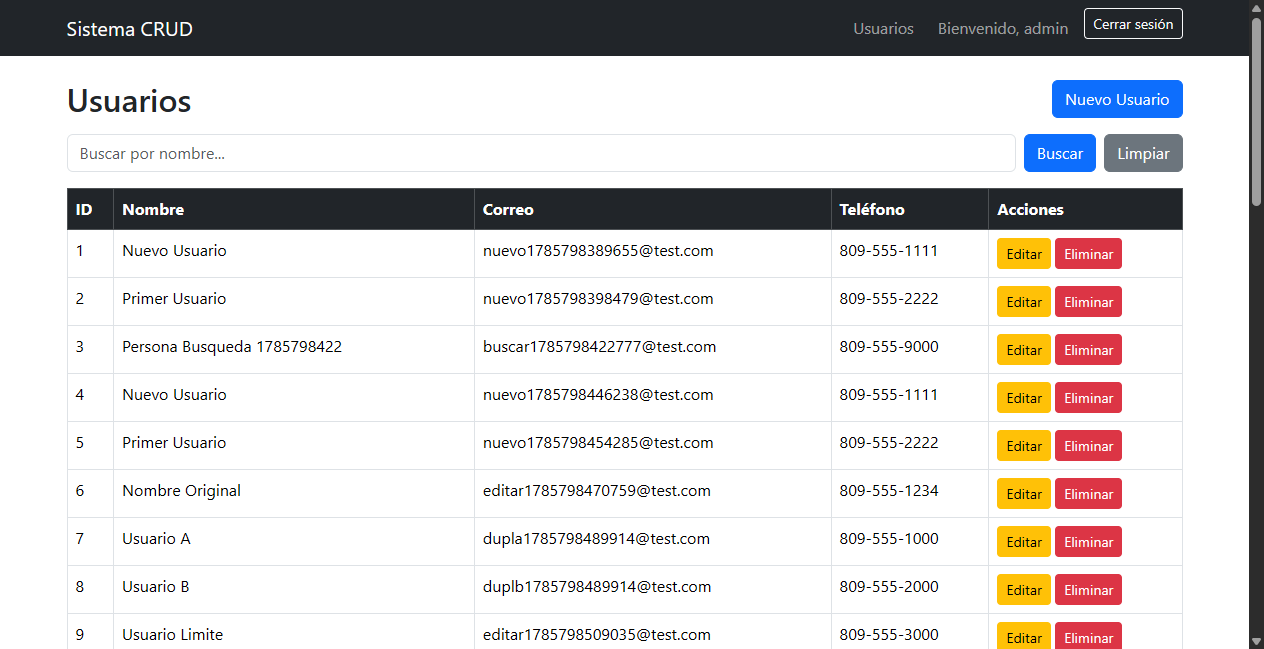
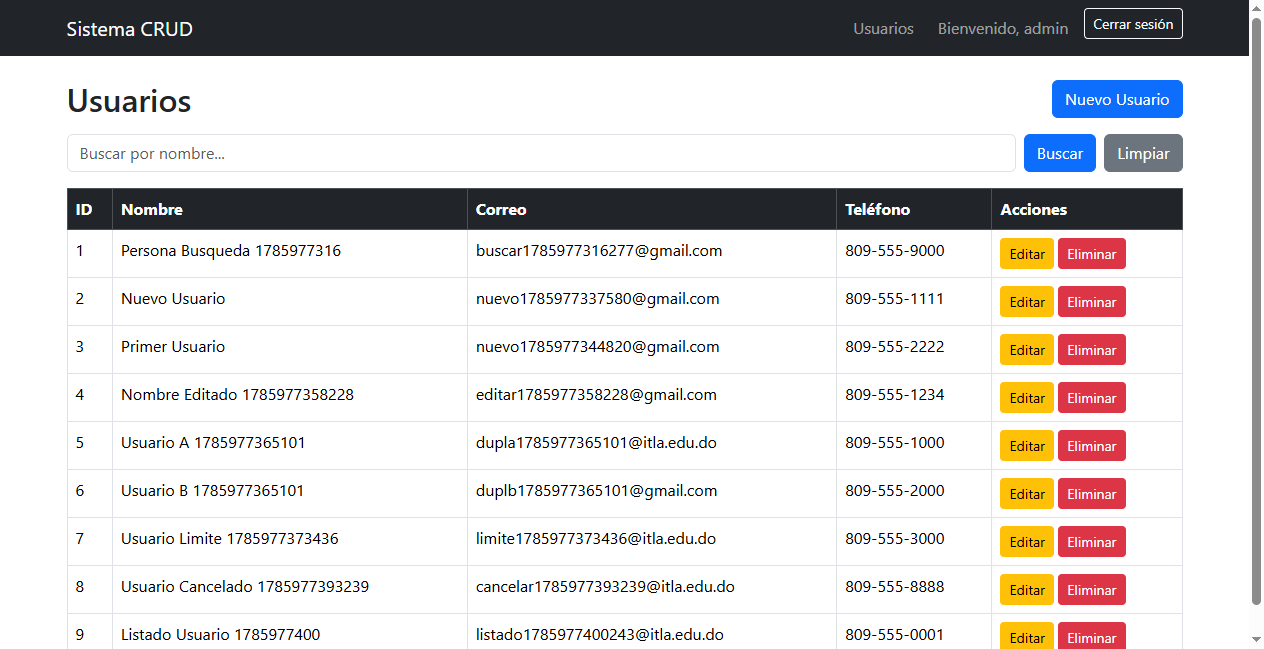
Usar correos realistas (@gmail.com y @itla.edu.do) en las pruebas y regenerar evidencias y reporte HTML

diff --git a/report/report.html b/report/report.html
@@ -328,7 +328,7 @@ div.media {
   </head>
   <body>
     <h1 id="title">report.html</h1>
-    <p>Report generated on 03-Aug-2026 at 19:19:36 by <a href="https://pypi.python.org/pypi/pytest-html">pytest-html</a>
+    <p>Report generated on 05-Aug-2026 at 20:50:33 by <a href="https://pypi.python.org/pypi/pytest-html">pytest-html</a>
         v4.2.0</p>
     <div id="environment-header">
       <h2>Environment</h2>
@@ -383,7 +383,7 @@ div.media {
         <h2>Summary</h2>
         <div class="additional-summary prefix">
         </div>
-        <p class="run-count">18 tests took 00:02:24.</p>
+        <p class="run-count">18 tests took 00:02:12.</p>
         <p class="filter">(Un)check the boxes to filter the results.</p>
         <div class="summary__reload">
           <div class="summary__reload__button hidden" onclick="location.reload()">
@@ -431,7 +431,7 @@ div.media {
       </thead>
     </table>
   <footer>
-    <div id="data-container" data-jsonblob="{&#34;environment&#34;: {&#34;Python&#34;: &#34;3.14.4&#34;, &#34;Platform&#34;: &#34;Windows-11-10.0.26200-SP0&#34;, &#34;Packages&#34;: {&#34;pytest&#34;: &#34;9.1.1&#34;, &#34;pluggy&#34;: &#34;1.6.0&#34;}, &#34;Plugins&#34;: {&#34;html&#34;: &#34;4.2.0&#34;, &#34;metadata&#34;: &#34;3.1.1&#34;}}, &#34;tests&#34;: {&#34;tests/test_buscar_usuario.py::TestBuscarUsuario::test_buscar_usuario_encontrado&#34;: [{&#34;extras&#34;: [], &#34;result&#34;: &#34;Passed&#34;, &#34;testId&#34;: &#34;tests/test_buscar_usuario.py::TestBuscarUsuario::test_buscar_usuario_encontrado&#34;, &#34;duration&#34;: &#34;00:00:11&#34;, &#34;resultsTableRow&#34;: [&#34;&lt;td class=\&#34;col-result\&#34;&gt;Passed&lt;/td&gt;&#34;, &#34;&lt;td class=\&#34;col-testId\&#34;&gt;tests/test_buscar_usuario.py::TestBuscarUsuario::test_buscar_usuario_encontrado&lt;/td&gt;&#34;, &#34;&lt;td class=\&#34;col-duration\&#34;&gt;00:00:11&lt;/td&gt;&#34;, &#34;&lt;td class=\&#34;col-links\&#34;&gt;&lt;/td&gt;&#34;], &#34;log&#34;: &#34;No log output captured.&#34;}], &#34;tests/test_buscar_usuario.py::TestBuscarUsuario::test_buscar_usuario_sin_resultados&#34;: [{&#34;extras&#34;: [], &#34;result&#34;: &#34;Passed&#34;, &#34;testId&#34;: &#34;tests/test_buscar_usuario.py::TestBuscarUsuario::test_buscar_usuario_sin_resultados&#34;, &#34;duration&#34;: &#34;00:00:09&#34;, &#34;resultsTableRow&#34;: [&#34;&lt;td class=\&#34;col-result\&#34;&gt;Passed&lt;/td&gt;&#34;, &#34;&lt;td class=\&#34;col-testId\&#34;&gt;tests/test_buscar_usuario.py::TestBuscarUsuario::test_buscar_usuario_sin_resultados&lt;/td&gt;&#34;, &#34;&lt;td class=\&#34;col-duration\&#34;&gt;00:00:09&lt;/td&gt;&#34;, &#34;&lt;td class=\&#34;col-links\&#34;&gt;&lt;/td&gt;&#34;], &#34;log&#34;: &#34;No log output captured.&#34;}], &#34;tests/test_buscar_usuario.py::TestBuscarUsuario::test_busqueda_vacia_muestra_todos&#34;: [{&#34;extras&#34;: [], &#34;result&#34;: &#34;Passed&#34;, &#34;testId&#34;: &#34;tests/test_buscar_usuario.py::TestBuscarUsuario::test_busqueda_vacia_muestra_todos&#34;, &#34;duration&#34;: &#34;00:00:07&#34;, &#34;resultsTableRow&#34;: [&#34;&lt;td class=\&#34;col-result\&#34;&gt;Passed&lt;/td&gt;&#34;, &#34;&lt;td class=\&#34;col-testId\&#34;&gt;tests/test_buscar_usuario.py::TestBuscarUsuario::test_busqueda_vacia_muestra_todos&lt;/td&gt;&#34;, &#34;&lt;td class=\&#34;col-duration\&#34;&gt;00:00:07&lt;/td&gt;&#34;, &#34;&lt;td class=\&#34;col-links\&#34;&gt;&lt;/td&gt;&#34;], &#34;log&#34;: &#34;No log output captured.&#34;}], &#34;tests/test_crear_usuario.py::TestCrearUsuario::test_crear_usuario_correcto&#34;: [{&#34;extras&#34;: [], &#34;result&#34;: &#34;Passed&#34;, &#34;testId&#34;: &#34;tests/test_crear_usuario.py::TestCrearUsuario::test_crear_usuario_correcto&#34;, &#34;duration&#34;: &#34;00:00:08&#34;, &#34;resultsTableRow&#34;: [&#34;&lt;td class=\&#34;col-result\&#34;&gt;Passed&lt;/td&gt;&#34;, &#34;&lt;td class=\&#34;col-testId\&#34;&gt;tests/test_crear_usuario.py::TestCrearUsuario::test_crear_usuario_correcto&lt;/td&gt;&#34;, &#34;&lt;td class=\&#34;col-duration\&#34;&gt;00:00:08&lt;/td&gt;&#34;, &#34;&lt;td class=\&#34;col-links\&#34;&gt;&lt;/td&gt;&#34;], &#34;log&#34;: &#34;No log output captured.&#34;}], &#34;tests/test_crear_usuario.py::TestCrearUsuario::test_crear_usuario_correo_duplicado&#34;: [{&#34;extras&#34;: [], &#34;result&#34;: &#34;Passed&#34;, &#34;testId&#34;: &#34;tests/test_crear_usuario.py::TestCrearUsuario::test_crear_usuario_correo_duplicado&#34;, &#34;duration&#34;: &#34;00:00:09&#34;, &#34;resultsTableRow&#34;: [&#34;&lt;td class=\&#34;col-result\&#34;&gt;Passed&lt;/td&gt;&#34;, &#34;&lt;td class=\&#34;col-testId\&#34;&gt;tests/test_crear_usuario.py::TestCrearUsuario::test_crear_usuario_correo_duplicado&lt;/td&gt;&#34;, &#34;&lt;td class=\&#34;col-duration\&#34;&gt;00:00:09&lt;/td&gt;&#34;, &#34;&lt;td class=\&#34;col-links\&#34;&gt;&lt;/td&gt;&#34;], &#34;log&#34;: &#34;No log output captured.&#34;}], &#34;tests/test_crear_usuario.py::TestCrearUsuario::test_crear_usuario_nombre_vacio&#34;: [{&#34;extras&#34;: [], &#34;result&#34;: &#34;Passed&#34;, &#34;testId&#34;: &#34;tests/test_crear_usuario.py::TestCrearUsuario::test_crear_usuario_nombre_vacio&#34;, &#34;duration&#34;: &#34;00:00:07&#34;, &#34;resultsTableRow&#34;: [&#34;&lt;td class=\&#34;col-result\&#34;&gt;Passed&lt;/td&gt;&#34;, &#34;&lt;td class=\&#34;col-testId\&#34;&gt;tests/test_crear_usuario.py::TestCrearUsuario::test_crear_usuario_nombre_vacio&lt;/td&gt;&#34;, &#34;&lt;td class=\&#34;col-duration\&#34;&gt;00:00:07&lt;/td&gt;&#34;, &#34;&lt;td class=\&#34;col-links\&#34;&gt;&lt;/td&gt;&#34;], &#34;log&#34;: &#34;No log output captured.&#34;}], &#34;tests/test_editar_usuario.py::TestEditarUsuario::test_editar_usuario_correcto&#34;: [{&#34;extras&#34;: [], &#34;result&#34;: &#34;Passed&#34;, &#34;testId&#34;: &#34;tests/test_editar_usuario.py::TestEditarUsuario::test_editar_usuario_correcto&#34;, &#34;duration&#34;: &#34;00:00:10&#34;, &#34;resultsTableRow&#34;: [&#34;&lt;td class=\&#34;col-result\&#34;&gt;Passed&lt;/td&gt;&#34;, &#34;&lt;td class=\&#34;col-testId\&#34;&gt;tests/test_editar_usuario.py::TestEditarUsuario::test_editar_usuario_correcto&lt;/td&gt;&#34;, &#34;&lt;td class=\&#34;col-duration\&#34;&gt;00:00:10&lt;/td&gt;&#34;, &#34;&lt;td class=\&#34;col-links\&#34;&gt;&lt;/td&gt;&#34;], &#34;log&#34;: &#34;No log output captured.&#34;}], &#34;tests/test_editar_usuario.py::TestEditarUsuario::test_editar_usuario_correo_duplicado&#34;: [{&#34;extras&#34;: [], &#34;result&#34;: &#34;Passed&#34;, &#34;testId&#34;: &#34;tests/test_editar_usuario.py::TestEditarUsuario::test_editar_usuario_correo_duplicado&#34;, &#34;duration&#34;: &#34;00:00:09&#34;, &#34;resultsTableRow&#34;: [&#34;&lt;td class=\&#34;col-result\&#34;&gt;Passed&lt;/td&gt;&#34;, &#34;&lt;td class=\&#34;col-testId\&#34;&gt;tests/test_editar_usuario.py::TestEditarUsuario::test_editar_usuario_correo_duplicado&lt;/td&gt;&#34;, &#34;&lt;td class=\&#34;col-duration\&#34;&gt;00:00:09&lt;/td&gt;&#34;, &#34;&lt;td class=\&#34;col-links\&#34;&gt;&lt;/td&gt;&#34;], &#34;log&#34;: &#34;No log output captured.&#34;}], &#34;tests/test_editar_usuario.py::TestEditarUsuario::test_editar_usuario_nombre_vacio&#34;: [{&#34;extras&#34;: [], &#34;result&#34;: &#34;Passed&#34;, &#34;testId&#34;: &#34;tests/test_editar_usuario.py::TestEditarUsuario::test_editar_usuario_nombre_vacio&#34;, &#34;duration&#34;: &#34;00:00:07&#34;, &#34;resultsTableRow&#34;: [&#34;&lt;td class=\&#34;col-result\&#34;&gt;Passed&lt;/td&gt;&#34;, &#34;&lt;td class=\&#34;col-testId\&#34;&gt;tests/test_editar_usuario.py::TestEditarUsuario::test_editar_usuario_nombre_vacio&lt;/td&gt;&#34;, &#34;&lt;td class=\&#34;col-duration\&#34;&gt;00:00:07&lt;/td&gt;&#34;, &#34;&lt;td class=\&#34;col-links\&#34;&gt;&lt;/td&gt;&#34;], &#34;log&#34;: &#34;No log output captured.&#34;}], &#34;tests/test_eliminar_usuario.py::TestEliminarUsuario::test_eliminar_usuario_correcto&#34;: [{&#34;extras&#34;: [], &#34;result&#34;: &#34;Passed&#34;, &#34;testId&#34;: &#34;tests/test_eliminar_usuario.py::TestEliminarUsuario::test_eliminar_usuario_correcto&#34;, &#34;duration&#34;: &#34;00:00:09&#34;, &#34;resultsTableRow&#34;: [&#34;&lt;td class=\&#34;col-result\&#34;&gt;Passed&lt;/td&gt;&#34;, &#34;&lt;td class=\&#34;col-testId\&#34;&gt;tests/test_eliminar_usuario.py::TestEliminarUsuario::test_eliminar_usuario_correcto&lt;/td&gt;&#34;, &#34;&lt;td class=\&#34;col-duration\&#34;&gt;00:00:09&lt;/td&gt;&#34;, &#34;&lt;td class=\&#34;col-links\&#34;&gt;&lt;/td&gt;&#34;], &#34;log&#34;: &#34;No log output captured.&#34;}], &#34;tests/test_eliminar_usuario.py::TestEliminarUsuario::test_eliminar_usuario_inexistente&#34;: [{&#34;extras&#34;: [], &#34;result&#34;: &#34;Passed&#34;, &#34;testId&#34;: &#34;tests/test_eliminar_usuario.py::TestEliminarUsuario::test_eliminar_usuario_inexistente&#34;, &#34;duration&#34;: &#34;00:00:07&#34;, &#34;resultsTableRow&#34;: [&#34;&lt;td class=\&#34;col-result\&#34;&gt;Passed&lt;/td&gt;&#34;, &#34;&lt;td class=\&#34;col-testId\&#34;&gt;tests/test_eliminar_usuario.py::TestEliminarUsuario::test_eliminar_usuario_inexistente&lt;/td&gt;&#34;, &#34;&lt;td class=\&#34;col-duration\&#34;&gt;00:00:07&lt;/td&gt;&#34;, &#34;&lt;td class=\&#34;col-links\&#34;&gt;&lt;/td&gt;&#34;], &#34;log&#34;: &#34;No log output captured.&#34;}], &#34;tests/test_eliminar_usuario.py::TestEliminarUsuario::test_eliminar_usuario_cancelado&#34;: [{&#34;extras&#34;: [], &#34;result&#34;: &#34;Passed&#34;, &#34;testId&#34;: &#34;tests/test_eliminar_usuario.py::TestEliminarUsuario::test_eliminar_usuario_cancelado&#34;, &#34;duration&#34;: &#34;00:00:08&#34;, &#34;resultsTableRow&#34;: [&#34;&lt;td class=\&#34;col-result\&#34;&gt;Passed&lt;/td&gt;&#34;, &#34;&lt;td class=\&#34;col-testId\&#34;&gt;tests/test_eliminar_usuario.py::TestEliminarUsuario::test_eliminar_usuario_cancelado&lt;/td&gt;&#34;, &#34;&lt;td class=\&#34;col-duration\&#34;&gt;00:00:08&lt;/td&gt;&#34;, &#34;&lt;td class=\&#34;col-links\&#34;&gt;&lt;/td&gt;&#34;], &#34;log&#34;: &#34;No log output captured.&#34;}], &#34;tests/test_listar_usuarios.py::TestListarUsuarios::test_listar_usuario_creado&#34;: [{&#34;extras&#34;: [], &#34;result&#34;: &#34;Passed&#34;, &#34;testId&#34;: &#34;tests/test_listar_usuarios.py::TestListarUsuarios::test_listar_usuario_creado&#34;, &#34;duration&#34;: &#34;00:00:08&#34;, &#34;resultsTableRow&#34;: [&#34;&lt;td class=\&#34;col-result\&#34;&gt;Passed&lt;/td&gt;&#34;, &#34;&lt;td class=\&#34;col-testId\&#34;&gt;tests/test_listar_usuarios.py::TestListarUsuarios::test_listar_usuario_creado&lt;/td&gt;&#34;, &#34;&lt;td class=\&#34;col-duration\&#34;&gt;00:00:08&lt;/td&gt;&#34;, &#34;&lt;td class=\&#34;col-links\&#34;&gt;&lt;/td&gt;&#34;], &#34;log&#34;: &#34;No log output captured.&#34;}], &#34;tests/test_listar_usuarios.py::TestListarUsuarios::test_listar_sin_resultados&#34;: [{&#34;extras&#34;: [], &#34;result&#34;: &#34;Passed&#34;, &#34;testId&#34;: &#34;tests/test_listar_usuarios.py::TestListarUsuarios::test_listar_sin_resultados&#34;, &#34;duration&#34;: &#34;00:00:07&#34;, &#34;resultsTableRow&#34;: [&#34;&lt;td class=\&#34;col-result\&#34;&gt;Passed&lt;/td&gt;&#34;, &#34;&lt;td class=\&#34;col-testId\&#34;&gt;tests/test_listar_usuarios.py::TestListarUsuarios::test_listar_sin_resultados&lt;/td&gt;&#34;, &#34;&lt;td class=\&#34;col-duration\&#34;&gt;00:00:07&lt;/td&gt;&#34;, &#34;&lt;td class=\&#34;col-links\&#34;&gt;&lt;/td&gt;&#34;], &#34;log&#34;: &#34;No log output captured.&#34;}], &#34;tests/test_listar_usuarios.py::TestListarUsuarios::test_listar_busqueda_extremadamente_larga&#34;: [{&#34;extras&#34;: [], &#34;result&#34;: &#34;Passed&#34;, &#34;testId&#34;: &#34;tests/test_listar_usuarios.py::TestListarUsuarios::test_listar_busqueda_extremadamente_larga&#34;, &#34;duration&#34;: &#34;00:00:07&#34;, &#34;resultsTableRow&#34;: [&#34;&lt;td class=\&#34;col-result\&#34;&gt;Passed&lt;/td&gt;&#34;, &#34;&lt;td class=\&#34;col-testId\&#34;&gt;tests/test_listar_usuarios.py::TestListarUsuarios::test_listar_busqueda_extremadamente_larga&lt;/td&gt;&#34;, &#34;&lt;td class=\&#34;col-duration\&#34;&gt;00:00:07&lt;/td&gt;&#34;, &#34;&lt;td class=\&#34;col-links\&#34;&gt;&lt;/td&gt;&#34;], &#34;log&#34;: &#34;No log output captured.&#34;}], &#34;tests/test_login.py::TestLogin::test_login_correcto&#34;: [{&#34;extras&#34;: [], &#34;result&#34;: &#34;Passed&#34;, &#34;testId&#34;: &#34;tests/test_login.py::TestLogin::test_login_correcto&#34;, &#34;duration&#34;: &#34;00:00:07&#34;, &#34;resultsTableRow&#34;: [&#34;&lt;td class=\&#34;col-result\&#34;&gt;Passed&lt;/td&gt;&#34;, &#34;&lt;td class=\&#34;col-testId\&#34;&gt;tests/test_login.py::TestLogin::test_login_correcto&lt;/td&gt;&#34;, &#34;&lt;td class=\&#34;col-duration\&#34;&gt;00:00:07&lt;/td&gt;&#34;, &#34;&lt;td class=\&#34;col-links\&#34;&gt;&lt;/td&gt;&#34;], &#34;log&#34;: &#34;No log output captured.&#34;}], &#34;tests/test_login.py::TestLogin::test_login_incorrecto&#34;: [{&#34;extras&#34;: [], &#34;result&#34;: &#34;Passed&#34;, &#34;testId&#34;: &#34;tests/test_login.py::TestLogin::test_login_incorrecto&#34;, &#34;duration&#34;: &#34;00:00:07&#34;, &#34;resultsTableRow&#34;: [&#34;&lt;td class=\&#34;col-result\&#34;&gt;Passed&lt;/td&gt;&#34;, &#34;&lt;td class=\&#34;col-testId\&#34;&gt;tests/test_login.py::TestLogin::test_login_incorrecto&lt;/td&gt;&#34;, &#34;&lt;td class=\&#34;col-duration\&#34;&gt;00:00:07&lt;/td&gt;&#34;, &#34;&lt;td class=\&#34;col-links\&#34;&gt;&lt;/td&gt;&#34;], &#34;log&#34;: &#34;No log output captured.&#34;}], &#34;tests/test_login.py::TestLogin::test_login_campos_vacios&#34;: [{&#34;extras&#34;: [], &#34;result&#34;: &#34;Passed&#34;, &#34;testId&#34;: &#34;tests/test_login.py::TestLogin::test_login_campos_vacios&#34;, &#34;duration&#34;: &#34;00:00:06&#34;, &#34;resultsTableRow&#34;: [&#34;&lt;td class=\&#34;col-result\&#34;&gt;Passed&lt;/td&gt;&#34;, &#34;&lt;td class=\&#34;col-testId\&#34;&gt;tests/test_login.py::TestLogin::test_login_campos_vacios&lt;/td&gt;&#34;, &#34;&lt;td class=\&#34;col-duration\&#34;&gt;00:00:06&lt;/td&gt;&#34;, &#34;&lt;td class=\&#34;col-links\&#34;&gt;&lt;/td&gt;&#34;], &#34;log&#34;: &#34;No log output captured.&#34;}]}, &#34;renderCollapsed&#34;: [&#34;passed&#34;], &#34;initialSort&#34;: &#34;result&#34;, &#34;title&#34;: &#34;report.html&#34;}"></div>
+    <div id="data-container" data-jsonblob="{&#34;environment&#34;: {&#34;Python&#34;: &#34;3.14.6&#34;, &#34;Platform&#34;: &#34;Windows-10-10.0.19045-SP0&#34;, &#34;Packages&#34;: {&#34;pytest&#34;: &#34;9.1.1&#34;, &#34;pluggy&#34;: &#34;1.6.0&#34;}, &#34;Plugins&#34;: {&#34;html&#34;: &#34;4.2.0&#34;, &#34;metadata&#34;: &#34;3.1.1&#34;}}, &#34;tests&#34;: {&#34;tests/test_buscar_usuario.py::TestBuscarUsuario::test_buscar_usuario_encontrado&#34;: [{&#34;extras&#34;: [], &#34;result&#34;: &#34;Passed&#34;, &#34;testId&#34;: &#34;tests/test_buscar_usuario.py::TestBuscarUsuario::test_buscar_usuario_encontrado&#34;, &#34;duration&#34;: &#34;00:00:17&#34;, &#34;resultsTableRow&#34;: [&#34;&lt;td class=\&#34;col-result\&#34;&gt;Passed&lt;/td&gt;&#34;, &#34;&lt;td class=\&#34;col-testId\&#34;&gt;tests/test_buscar_usuario.py::TestBuscarUsuario::test_buscar_usuario_encontrado&lt;/td&gt;&#34;, &#34;&lt;td class=\&#34;col-duration\&#34;&gt;00:00:17&lt;/td&gt;&#34;, &#34;&lt;td class=\&#34;col-links\&#34;&gt;&lt;/td&gt;&#34;], &#34;log&#34;: &#34;No log output captured.&#34;}], &#34;tests/test_buscar_usuario.py::TestBuscarUsuario::test_buscar_usuario_sin_resultados&#34;: [{&#34;extras&#34;: [], &#34;result&#34;: &#34;Passed&#34;, &#34;testId&#34;: &#34;tests/test_buscar_usuario.py::TestBuscarUsuario::test_buscar_usuario_sin_resultados&#34;, &#34;duration&#34;: &#34;00:00:07&#34;, &#34;resultsTableRow&#34;: [&#34;&lt;td class=\&#34;col-result\&#34;&gt;Passed&lt;/td&gt;&#34;, &#34;&lt;td class=\&#34;col-testId\&#34;&gt;tests/test_buscar_usuario.py::TestBuscarUsuario::test_buscar_usuario_sin_resultados&lt;/td&gt;&#34;, &#34;&lt;td class=\&#34;col-duration\&#34;&gt;00:00:07&lt;/td&gt;&#34;, &#34;&lt;td class=\&#34;col-links\&#34;&gt;&lt;/td&gt;&#34;], &#34;log&#34;: &#34;No log output captured.&#34;}], &#34;tests/test_buscar_usuario.py::TestBuscarUsuario::test_busqueda_vacia_muestra_todos&#34;: [{&#34;extras&#34;: [], &#34;result&#34;: &#34;Passed&#34;, &#34;testId&#34;: &#34;tests/test_buscar_usuario.py::TestBuscarUsuario::test_busqueda_vacia_muestra_todos&#34;, &#34;duration&#34;: &#34;00:00:07&#34;, &#34;resultsTableRow&#34;: [&#34;&lt;td class=\&#34;col-result\&#34;&gt;Passed&lt;/td&gt;&#34;, &#34;&lt;td class=\&#34;col-testId\&#34;&gt;tests/test_buscar_usuario.py::TestBuscarUsuario::test_busqueda_vacia_muestra_todos&lt;/td&gt;&#34;, &#34;&lt;td class=\&#34;col-duration\&#34;&gt;00:00:07&lt;/td&gt;&#34;, &#34;&lt;td class=\&#34;col-links\&#34;&gt;&lt;/td&gt;&#34;], &#34;log&#34;: &#34;No log output captured.&#34;}], &#34;tests/test_crear_usuario.py::TestCrearUsuario::test_crear_usuario_correcto&#34;: [{&#34;extras&#34;: [], &#34;result&#34;: &#34;Passed&#34;, &#34;testId&#34;: &#34;tests/test_crear_usuario.py::TestCrearUsuario::test_crear_usuario_correcto&#34;, &#34;duration&#34;: &#34;00:00:07&#34;, &#34;resultsTableRow&#34;: [&#34;&lt;td class=\&#34;col-result\&#34;&gt;Passed&lt;/td&gt;&#34;, &#34;&lt;td class=\&#34;col-testId\&#34;&gt;tests/test_crear_usuario.py::TestCrearUsuario::test_crear_usuario_correcto&lt;/td&gt;&#34;, &#34;&lt;td class=\&#34;col-duration\&#34;&gt;00:00:07&lt;/td&gt;&#34;, &#34;&lt;td class=\&#34;col-links\&#34;&gt;&lt;/td&gt;&#34;], &#34;log&#34;: &#34;No log output captured.&#34;}], &#34;tests/test_crear_usuario.py::TestCrearUsuario::test_crear_usuario_correo_duplicado&#34;: [{&#34;extras&#34;: [], &#34;result&#34;: &#34;Passed&#34;, &#34;testId&#34;: &#34;tests/test_crear_usuario.py::TestCrearUsuario::test_crear_usuario_correo_duplicado&#34;, &#34;duration&#34;: &#34;00:00:07&#34;, &#34;resultsTableRow&#34;: [&#34;&lt;td class=\&#34;col-result\&#34;&gt;Passed&lt;/td&gt;&#34;, &#34;&lt;td class=\&#34;col-testId\&#34;&gt;tests/test_crear_usuario.py::TestCrearUsuario::test_crear_usuario_correo_duplicado&lt;/td&gt;&#34;, &#34;&lt;td class=\&#34;col-duration\&#34;&gt;00:00:07&lt;/td&gt;&#34;, &#34;&lt;td class=\&#34;col-links\&#34;&gt;&lt;/td&gt;&#34;], &#34;log&#34;: &#34;No log output captured.&#34;}], &#34;tests/test_crear_usuario.py::TestCrearUsuario::test_crear_usuario_nombre_vacio&#34;: [{&#34;extras&#34;: [], &#34;result&#34;: &#34;Passed&#34;, &#34;testId&#34;: &#34;tests/test_crear_usuario.py::TestCrearUsuario::test_crear_usuario_nombre_vacio&#34;, &#34;duration&#34;: &#34;00:00:06&#34;, &#34;resultsTableRow&#34;: [&#34;&lt;td class=\&#34;col-result\&#34;&gt;Passed&lt;/td&gt;&#34;, &#34;&lt;td class=\&#34;col-testId\&#34;&gt;tests/test_crear_usuario.py::TestCrearUsuario::test_crear_usuario_nombre_vacio&lt;/td&gt;&#34;, &#34;&lt;td class=\&#34;col-duration\&#34;&gt;00:00:06&lt;/td&gt;&#34;, &#34;&lt;td class=\&#34;col-links\&#34;&gt;&lt;/td&gt;&#34;], &#34;log&#34;: &#34;No log output captured.&#34;}], &#34;tests/test_editar_usuario.py::TestEditarUsuario::test_editar_usuario_correcto&#34;: [{&#34;extras&#34;: [], &#34;result&#34;: &#34;Passed&#34;, &#34;testId&#34;: &#34;tests/test_editar_usuario.py::TestEditarUsuario::test_editar_usuario_correcto&#34;, &#34;duration&#34;: &#34;00:00:07&#34;, &#34;resultsTableRow&#34;: [&#34;&lt;td class=\&#34;col-result\&#34;&gt;Passed&lt;/td&gt;&#34;, &#34;&lt;td class=\&#34;col-testId\&#34;&gt;tests/test_editar_usuario.py::TestEditarUsuario::test_editar_usuario_correcto&lt;/td&gt;&#34;, &#34;&lt;td class=\&#34;col-duration\&#34;&gt;00:00:07&lt;/td&gt;&#34;, &#34;&lt;td class=\&#34;col-links\&#34;&gt;&lt;/td&gt;&#34;], &#34;log&#34;: &#34;No log output captured.&#34;}], &#34;tests/test_editar_usuario.py::TestEditarUsuario::test_editar_usuario_correo_duplicado&#34;: [{&#34;extras&#34;: [], &#34;result&#34;: &#34;Passed&#34;, &#34;testId&#34;: &#34;tests/test_editar_usuario.py::TestEditarUsuario::test_editar_usuario_correo_duplicado&#34;, &#34;duration&#34;: &#34;00:00:08&#34;, &#34;resultsTableRow&#34;: [&#34;&lt;td class=\&#34;col-result\&#34;&gt;Passed&lt;/td&gt;&#34;, &#34;&lt;td class=\&#34;col-testId\&#34;&gt;tests/test_editar_usuario.py::TestEditarUsuario::test_editar_usuario_correo_duplicado&lt;/td&gt;&#34;, &#34;&lt;td class=\&#34;col-duration\&#34;&gt;00:00:08&lt;/td&gt;&#34;, &#34;&lt;td class=\&#34;col-links\&#34;&gt;&lt;/td&gt;&#34;], &#34;log&#34;: &#34;No log output captured.&#34;}], &#34;tests/test_editar_usuario.py::TestEditarUsuario::test_editar_usuario_nombre_vacio&#34;: [{&#34;extras&#34;: [], &#34;result&#34;: &#34;Passed&#34;, &#34;testId&#34;: &#34;tests/test_editar_usuario.py::TestEditarUsuario::test_editar_usuario_nombre_vacio&#34;, &#34;duration&#34;: &#34;00:00:07&#34;, &#34;resultsTableRow&#34;: [&#34;&lt;td class=\&#34;col-result\&#34;&gt;Passed&lt;/td&gt;&#34;, &#34;&lt;td class=\&#34;col-testId\&#34;&gt;tests/test_editar_usuario.py::TestEditarUsuario::test_editar_usuario_nombre_vacio&lt;/td&gt;&#34;, &#34;&lt;td class=\&#34;col-duration\&#34;&gt;00:00:07&lt;/td&gt;&#34;, &#34;&lt;td class=\&#34;col-links\&#34;&gt;&lt;/td&gt;&#34;], &#34;log&#34;: &#34;No log output captured.&#34;}], &#34;tests/test_eliminar_usuario.py::TestEliminarUsuario::test_eliminar_usuario_correcto&#34;: [{&#34;extras&#34;: [], &#34;result&#34;: &#34;Passed&#34;, &#34;testId&#34;: &#34;tests/test_eliminar_usuario.py::TestEliminarUsuario::test_eliminar_usuario_correcto&#34;, &#34;duration&#34;: &#34;00:00:07&#34;, &#34;resultsTableRow&#34;: [&#34;&lt;td class=\&#34;col-result\&#34;&gt;Passed&lt;/td&gt;&#34;, &#34;&lt;td class=\&#34;col-testId\&#34;&gt;tests/test_eliminar_usuario.py::TestEliminarUsuario::test_eliminar_usuario_correcto&lt;/td&gt;&#34;, &#34;&lt;td class=\&#34;col-duration\&#34;&gt;00:00:07&lt;/td&gt;&#34;, &#34;&lt;td class=\&#34;col-links\&#34;&gt;&lt;/td&gt;&#34;], &#34;log&#34;: &#34;No log output captured.&#34;}], &#34;tests/test_eliminar_usuario.py::TestEliminarUsuario::test_eliminar_usuario_inexistente&#34;: [{&#34;extras&#34;: [], &#34;result&#34;: &#34;Passed&#34;, &#34;testId&#34;: &#34;tests/test_eliminar_usuario.py::TestEliminarUsuario::test_eliminar_usuario_inexistente&#34;, &#34;duration&#34;: &#34;00:00:06&#34;, &#34;resultsTableRow&#34;: [&#34;&lt;td class=\&#34;col-result\&#34;&gt;Passed&lt;/td&gt;&#34;, &#34;&lt;td class=\&#34;col-testId\&#34;&gt;tests/test_eliminar_usuario.py::TestEliminarUsuario::test_eliminar_usuario_inexistente&lt;/td&gt;&#34;, &#34;&lt;td class=\&#34;col-duration\&#34;&gt;00:00:06&lt;/td&gt;&#34;, &#34;&lt;td class=\&#34;col-links\&#34;&gt;&lt;/td&gt;&#34;], &#34;log&#34;: &#34;No log output captured.&#34;}], &#34;tests/test_eliminar_usuario.py::TestEliminarUsuario::test_eliminar_usuario_cancelado&#34;: [{&#34;extras&#34;: [], &#34;result&#34;: &#34;Passed&#34;, &#34;testId&#34;: &#34;tests/test_eliminar_usuario.py::TestEliminarUsuario::test_eliminar_usuario_cancelado&#34;, &#34;duration&#34;: &#34;00:00:06&#34;, &#34;resultsTableRow&#34;: [&#34;&lt;td class=\&#34;col-result\&#34;&gt;Passed&lt;/td&gt;&#34;, &#34;&lt;td class=\&#34;col-testId\&#34;&gt;tests/test_eliminar_usuario.py::TestEliminarUsuario::test_eliminar_usuario_cancelado&lt;/td&gt;&#34;, &#34;&lt;td class=\&#34;col-duration\&#34;&gt;00:00:06&lt;/td&gt;&#34;, &#34;&lt;td class=\&#34;col-links\&#34;&gt;&lt;/td&gt;&#34;], &#34;log&#34;: &#34;No log output captured.&#34;}], &#34;tests/test_listar_usuarios.py::TestListarUsuarios::test_listar_usuario_creado&#34;: [{&#34;extras&#34;: [], &#34;result&#34;: &#34;Passed&#34;, &#34;testId&#34;: &#34;tests/test_listar_usuarios.py::TestListarUsuarios::test_listar_usuario_creado&#34;, &#34;duration&#34;: &#34;00:00:07&#34;, &#34;resultsTableRow&#34;: [&#34;&lt;td class=\&#34;col-result\&#34;&gt;Passed&lt;/td&gt;&#34;, &#34;&lt;td class=\&#34;col-testId\&#34;&gt;tests/test_listar_usuarios.py::TestListarUsuarios::test_listar_usuario_creado&lt;/td&gt;&#34;, &#34;&lt;td class=\&#34;col-duration\&#34;&gt;00:00:07&lt;/td&gt;&#34;, &#34;&lt;td class=\&#34;col-links\&#34;&gt;&lt;/td&gt;&#34;], &#34;log&#34;: &#34;No log output captured.&#34;}], &#34;tests/test_listar_usuarios.py::TestListarUsuarios::test_listar_sin_resultados&#34;: [{&#34;extras&#34;: [], &#34;result&#34;: &#34;Passed&#34;, &#34;testId&#34;: &#34;tests/test_listar_usuarios.py::TestListarUsuarios::test_listar_sin_resultados&#34;, &#34;duration&#34;: &#34;00:00:06&#34;, &#34;resultsTableRow&#34;: [&#34;&lt;td class=\&#34;col-result\&#34;&gt;Passed&lt;/td&gt;&#34;, &#34;&lt;td class=\&#34;col-testId\&#34;&gt;tests/test_listar_usuarios.py::TestListarUsuarios::test_listar_sin_resultados&lt;/td&gt;&#34;, &#34;&lt;td class=\&#34;col-duration\&#34;&gt;00:00:06&lt;/td&gt;&#34;, &#34;&lt;td class=\&#34;col-links\&#34;&gt;&lt;/td&gt;&#34;], &#34;log&#34;: &#34;No log output captured.&#34;}], &#34;tests/test_listar_usuarios.py::TestListarUsuarios::test_listar_busqueda_extremadamente_larga&#34;: [{&#34;extras&#34;: [], &#34;result&#34;: &#34;Passed&#34;, &#34;testId&#34;: &#34;tests/test_listar_usuarios.py::TestListarUsuarios::test_listar_busqueda_extremadamente_larga&#34;, &#34;duration&#34;: &#34;00:00:06&#34;, &#34;resultsTableRow&#34;: [&#34;&lt;td class=\&#34;col-result\&#34;&gt;Passed&lt;/td&gt;&#34;, &#34;&lt;td class=\&#34;col-testId\&#34;&gt;tests/test_listar_usuarios.py::TestListarUsuarios::test_listar_busqueda_extremadamente_larga&lt;/td&gt;&#34;, &#34;&lt;td class=\&#34;col-duration\&#34;&gt;00:00:06&lt;/td&gt;&#34;, &#34;&lt;td class=\&#34;col-links\&#34;&gt;&lt;/td&gt;&#34;], &#34;log&#34;: &#34;No log output captured.&#34;}], &#34;tests/test_login.py::TestLogin::test_login_correcto&#34;: [{&#34;extras&#34;: [], &#34;result&#34;: &#34;Passed&#34;, &#34;testId&#34;: &#34;tests/test_login.py::TestLogin::test_login_correcto&#34;, &#34;duration&#34;: &#34;00:00:06&#34;, &#34;resultsTableRow&#34;: [&#34;&lt;td class=\&#34;col-result\&#34;&gt;Passed&lt;/td&gt;&#34;, &#34;&lt;td class=\&#34;col-testId\&#34;&gt;tests/test_login.py::TestLogin::test_login_correcto&lt;/td&gt;&#34;, &#34;&lt;td class=\&#34;col-duration\&#34;&gt;00:00:06&lt;/td&gt;&#34;, &#34;&lt;td class=\&#34;col-links\&#34;&gt;&lt;/td&gt;&#34;], &#34;log&#34;: &#34;No log output captured.&#34;}], &#34;tests/test_login.py::TestLogin::test_login_incorrecto&#34;: [{&#34;extras&#34;: [], &#34;result&#34;: &#34;Passed&#34;, &#34;testId&#34;: &#34;tests/test_login.py::TestLogin::test_login_incorrecto&#34;, &#34;duration&#34;: &#34;00:00:06&#34;, &#34;resultsTableRow&#34;: [&#34;&lt;td class=\&#34;col-result\&#34;&gt;Passed&lt;/td&gt;&#34;, &#34;&lt;td class=\&#34;col-testId\&#34;&gt;tests/test_login.py::TestLogin::test_login_incorrecto&lt;/td&gt;&#34;, &#34;&lt;td class=\&#34;col-duration\&#34;&gt;00:00:06&lt;/td&gt;&#34;, &#34;&lt;td class=\&#34;col-links\&#34;&gt;&lt;/td&gt;&#34;], &#34;log&#34;: &#34;No log output captured.&#34;}], &#34;tests/test_login.py::TestLogin::test_login_campos_vacios&#34;: [{&#34;extras&#34;: [], &#34;result&#34;: &#34;Passed&#34;, &#34;testId&#34;: &#34;tests/test_login.py::TestLogin::test_login_campos_vacios&#34;, &#34;duration&#34;: &#34;00:00:06&#34;, &#34;resultsTableRow&#34;: [&#34;&lt;td class=\&#34;col-result\&#34;&gt;Passed&lt;/td&gt;&#34;, &#34;&lt;td class=\&#34;col-testId\&#34;&gt;tests/test_login.py::TestLogin::test_login_campos_vacios&lt;/td&gt;&#34;, &#34;&lt;td class=\&#34;col-duration\&#34;&gt;00:00:06&lt;/td&gt;&#34;, &#34;&lt;td class=\&#34;col-links\&#34;&gt;&lt;/td&gt;&#34;], &#34;log&#34;: &#34;No log output captured.&#34;}]}, &#34;renderCollapsed&#34;: [&#34;passed&#34;], &#34;initialSort&#34;: &#34;result&#34;, &#34;title&#34;: &#34;report.html&#34;}"></div>
     <script>
       (function(){function r(e,n,t){function o(i,f){if(!n[i]){if(!e[i]){var c="function"==typeof require&&require;if(!f&&c)return c(i,!0);if(u)return u(i,!0);var a=new Error("Cannot find module '"+i+"'");throw a.code="MODULE_NOT_FOUND",a}var p=n[i]={exports:{}};e[i][0].call(p.exports,function(r){var n=e[i][1][r];return o(n||r)},p,p.exports,r,e,n,t)}return n[i].exports}for(var u="function"==typeof require&&require,i=0;i<t.length;i++)o(t[i]);return o}return r})()({1:[function(require,module,exports){
 const { getCollapsedCategory, setCollapsedIds } = require('./storage.js')

diff --git a/tests/test_editar_usuario.py b/tests/test_editar_usuario.py
@@ -31,7 +31,7 @@ class TestEditarUsuario:
 
     def test_editar_usuario_correcto(self, driver):
         suf = unique_suffix()
-        correo = f"editar{suf}@test.com"
+        correo = f"editar{suf}@gmail.com"
         nombre_original = f"Nombre Original {suf}"
         nombre_editado = f"Nombre Editado {suf}"
         self._crear(driver, nombre_original, correo, "809-555-1234")
@@ -47,8 +47,8 @@ class TestEditarUsuario:
 
     def test_editar_usuario_correo_duplicado(self, driver):
         suf = unique_suffix()
-        correo_a = f"dupla{suf}@test.com"
-        correo_b = f"duplb{suf}@test.com"
+        correo_a = f"dupla{suf}@itla.edu.do"
+        correo_b = f"duplb{suf}@gmail.com"
         nombre_a = f"Usuario A {suf}"
         nombre_b = f"Usuario B {suf}"
         self._crear(driver, nombre_a, correo_a, "809-555-1000")
@@ -63,7 +63,7 @@ class TestEditarUsuario:
 
     def test_editar_usuario_nombre_vacio(self, driver):
         suf = unique_suffix()
-        correo = f"editar{suf}@test.com"
+        correo = f"limite{suf}@itla.edu.do"
         nombre = f"Usuario Limite {suf}"
         self._crear(driver, nombre, correo, "809-555-3000")
         self._buscar_editar(driver, nombre)

diff --git a/tests/test_eliminar_usuario.py b/tests/test_eliminar_usuario.py
@@ -36,7 +36,7 @@ class TestEliminarUsuario:
     def test_eliminar_usuario_correcto(self, driver):
         suf = unique_suffix()
         nombre = f"Usuario a Borrar {suf}"
-        correo = f"borrar{suf}@test.com"
+        correo = f"borrar{suf}@gmail.com"
         self._crear(driver, nombre, correo, "809-555-7777")
         self._clic_eliminar(driver, nombre)
         wait_for_text(driver, "Usuario eliminado exitosamente.")
@@ -52,7 +52,7 @@ class TestEliminarUsuario:
     def test_eliminar_usuario_cancelado(self, driver):
         suf = unique_suffix()
         nombre = f"Usuario Cancelado {suf}"
-        correo = f"cancelar{suf}@test.com"
+        correo = f"cancelar{suf}@itla.edu.do"
         self._crear(driver, nombre, correo, "809-555-8888")
         self._clic_eliminar(driver, nombre, confirmar=False)
         driver.get(f"{BASE_URL}/usuarios?q={nombre}")

diff --git a/tests/test_listar_usuarios.py b/tests/test_listar_usuarios.py
@@ -9,7 +9,7 @@ class TestListarUsuarios:
 
     def test_listar_usuario_creado(self, driver):
         nombre = f"Listado Usuario {int(time.time())}"
-        correo = f"listado{int(time.time() * 1000)}@test.com"
+        correo = f"listado{int(time.time() * 1000)}@itla.edu.do"
         driver.get(f"{BASE_URL}/usuarios/crear")
         wait_for_element(driver, By.ID, "nombre")
         driver.find_element(By.ID, "nombre").send_keys(nombre)

diff --git a/tests/test_buscar_usuario.py b/tests/test_buscar_usuario.py
@@ -5,7 +5,7 @@ from conftest import BASE_URL, logged_in, wait_for_text, wait_for_element, click
 
 
 def unique_email(prefix="buscar"):
-    return f"{prefix}{int(time.time() * 1000)}@test.com"
+    return f"{prefix}{int(time.time() * 1000)}@gmail.com"
 
 
 @pytest.mark.usefixtures("logged_in")

diff --git a/tests/test_crear_usuario.py b/tests/test_crear_usuario.py
@@ -5,7 +5,7 @@ from conftest import BASE_URL, logged_in, wait_for_text, wait_for_element, submi
 
 
 def unique_email(prefix="nuevo"):
-    return f"{prefix}{int(time.time() * 1000)}@test.com"
+    return f"{prefix}{int(time.time() * 1000)}@gmail.com"
 
 
 @pytest.mark.usefixtures("logged_in")
